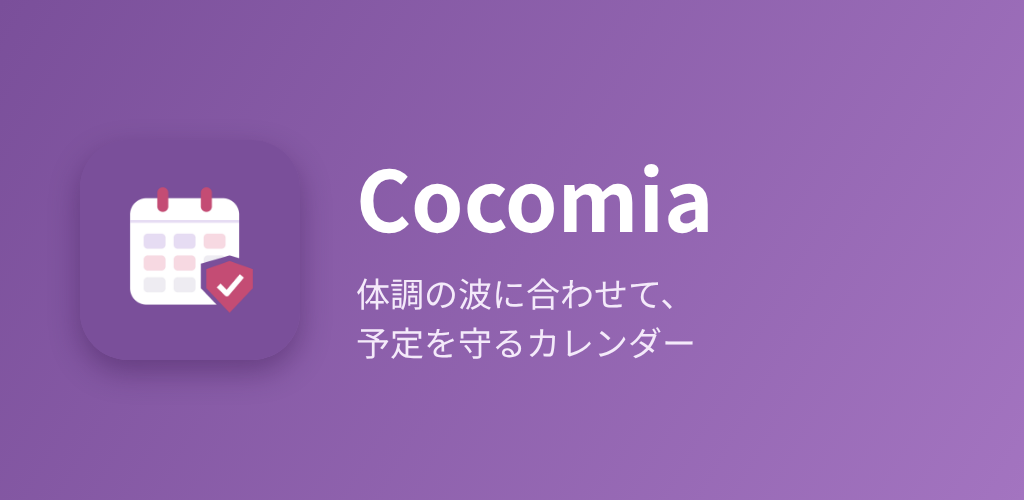
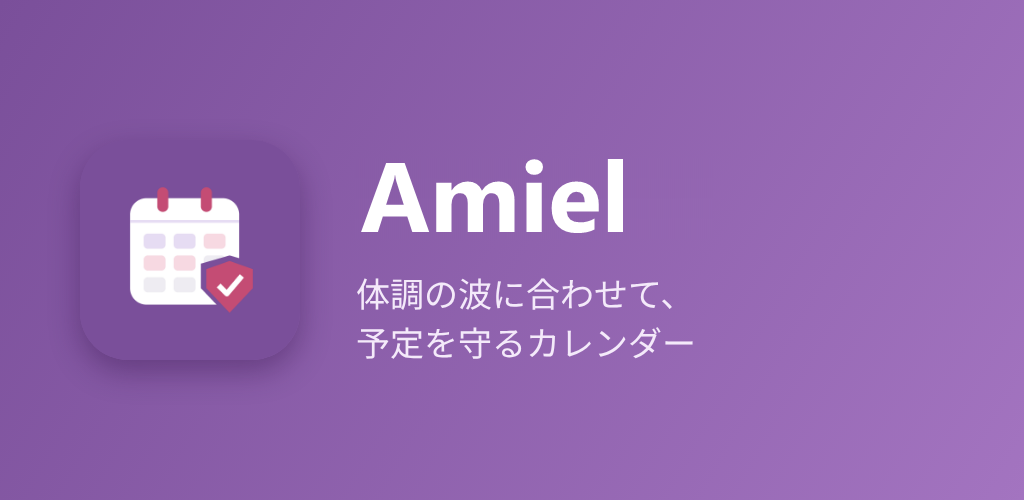
Rename the app from Cocomia to Amiel for 1.0.1
The home-screen name, onboarding title, store drafts and the three store
images that showed the old name now say Amiel, and the version moves to
1.0.1 because 1.0.0 is already in App Review as Cocomia. The support and
privacy pages mention the old name so the reviewer of 1.0.0 still finds
it. Bundle IDs, the Expo owner and the support email stay as they are.

Changed region(s): [[0.3438, 0.3, 0.7188, 0.48]]

diff --git a/docs/index.html b/docs/index.html
@@ -3,7 +3,7 @@
 <head>
 <meta charset="utf-8">
 <meta name="viewport" content="width=device-width, initial-scale=1">
-<title>Cocomia サポート</title>
+<title>Amiel サポート</title>
 <style>
   :root { --bg: #f7f6f9; --fg: #26222e; --muted: #6c6577; --accent: #7a4f9a; }
   @media (prefers-color-scheme: dark) { :root { --bg: #17141c; --fg: #ece8f1; --muted: #a59db0; --accent: #c9a3e8; } }
@@ -12,16 +12,18 @@
   h1 { font-size: 26px; color: var(--accent); margin: 0 0 4px; }
   h2 { font-size: 19px; margin: 32px 0 8px; }
   p, li { margin: 0 0 8px; }
+  .muted { color: var(--muted); font-size: 14px; }
   a { color: var(--accent); }
 </style>
 </head>
 <body>
 <main>
-  <h1>Cocomia（ココミア）</h1>
+  <h1>Amiel（アミエル）</h1>
+  <p class="muted">旧名：Cocomia</p>
   <p>生理やPMSの時期に重い予定が重なりそうなとき、前もって知らせるカレンダーアプリです。データはすべて端末の中だけで扱います。</p>
 
   <h2>よくある質問</h2>
-  <p><strong>予定が表示されません。</strong><br>端末の設定アプリで、Cocomiaのカレンダーへのアクセスを許可してください。</p>
+  <p><strong>予定が表示されません。</strong><br>端末の設定アプリで、Amielのカレンダーへのアクセスを許可してください。</p>
   <p><strong>通知が届きません。</strong><br>アプリの設定で「重なる予定の前に通知する」がオンか、端末の設定で通知が許可されているかを確認してください。通知は朝9時に届きます。</p>
   <p><strong>機種変更するときは？</strong><br>アプリの設定から「データを書き出す」で記録を保存してください。</p>
 

diff --git a/docs/privacy.html b/docs/privacy.html
@@ -3,7 +3,7 @@
 <head>
 <meta charset="utf-8">
 <meta name="viewport" content="width=device-width, initial-scale=1">
-<title>プライバシーポリシー | Cocomia</title>
+<title>プライバシーポリシー | Amiel</title>
 <style>
   :root { --bg: #f7f6f9; --fg: #26222e; --muted: #6c6577; --accent: #7a4f9a; }
   @media (prefers-color-scheme: dark) { :root { --bg: #17141c; --fg: #ece8f1; --muted: #a59db0; --accent: #c9a3e8; } }
@@ -19,7 +19,7 @@
 <body>
 <main>
   <h1>プライバシーポリシー</h1>
-  <p class="muted">Cocomia（ココミア、以下「本アプリ」）／最終更新日：2026年10月25日</p>
+  <p class="muted">Amiel（アミエル、旧名：Cocomia、以下「本アプリ」）／最終更新日：2026年10月26日</p>
 
   <h2>1. 集める情報はありません</h2>
   <p>本アプリは、利用者の情報を開発者や第三者のサーバーに送信しません。アカウント登録、広告、アクセス解析、クラッシュレポートの送信もありません。</p>

diff --git a/src/ui/OnboardingScreen.tsx b/src/ui/OnboardingScreen.tsx
@@ -27,7 +27,7 @@ export default function OnboardingScreen({ onDone }: { onDone: () => void }) {
   return (
     <ScrollView contentContainerStyle={styles.content}>
       <Text accessibilityRole="header" style={[styles.title, { color: colors.accent }]}>
-        Cocomia
+        Amiel
       </Text>
       <Text style={[styles.lead, { color: colors.text }]}>体調の波に合わせて、予定を守るカレンダー</Text>
       {POINTS.map((point) => (

diff --git a/.claude/memory/release.md b/.claude/memory/release.md
@@ -1,6 +1,7 @@
 # release: ストア提出と公開ページ
 
-- アプリ名「Cocomia」、ID `com.cocomia.app`。表示名・権限文言は `locales/ja.json` と `app.json`
+- アプリ名「Amiel」（1.0.0は旧名「Cocomia」で審査に出した）。ID `com.cocomia.app`・Expoの `owner: cocomia`・問い合わせ `cocomia.tokyo@gmail.com` は変えない。表示名・権限文言は `locales/ja.json` と `app.json`
+- ストア名は「Amiel - 体調と予定のカレンダー」。iOSは1.0.0合格後に1.0.1で改名。Play Consoleの開発者名は「amicuna」
 - ビルド/提出は EAS（Mac不要）: `npx eas-cli@latest build --platform ios|android`、`submit --platform ios --latest`
 - ビルド番号は EAS が自動採番（`eas.json` の `appVersionSource: remote`）。証明書も EAS 管理
 - Android の最初の AAB は Play Console に手動アップロード

diff --git a/CLAUDE.md b/CLAUDE.md
@@ -1,4 +1,4 @@
-# karenda（Cocomia）カーネル
+# karenda（Amiel）カーネル
 
 生理・PMS周期と予定の衝突を端末内だけで知らせるiPhoneアプリ（Expo SDK 58 + TypeScript）。
 オーナーはコードを書かない。実装→テスト→コミット→PR作成までClaudeが自走し、オーナーはiPhone（Expo Go）で確認してマージする。

diff --git a/README.md b/README.md
@@ -1,4 +1,4 @@
-# Cocomia（ココミア／karenda）
+# Amiel（アミエル／karenda）
 
 体調（生理・PMS周期）と予定の衝突を、スマホの中だけで知らせるカレンダーアプリ。
 
